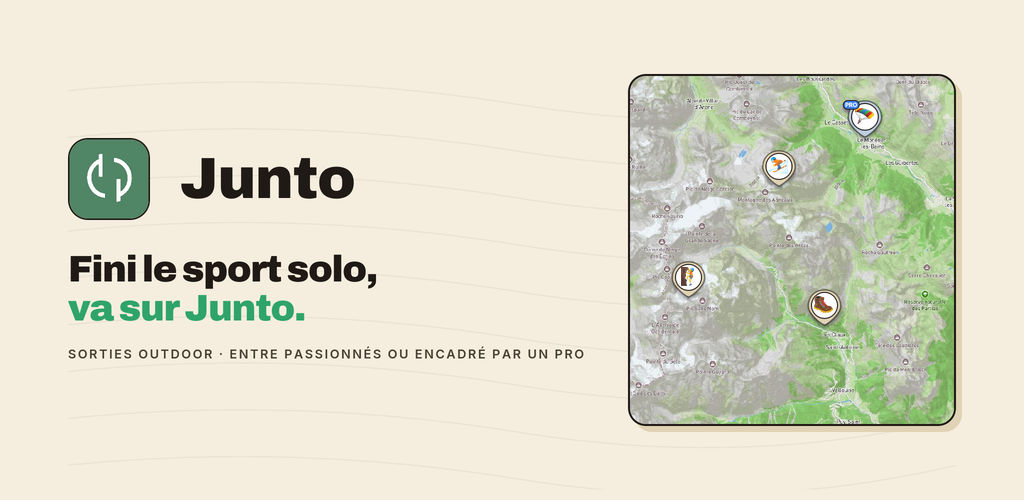
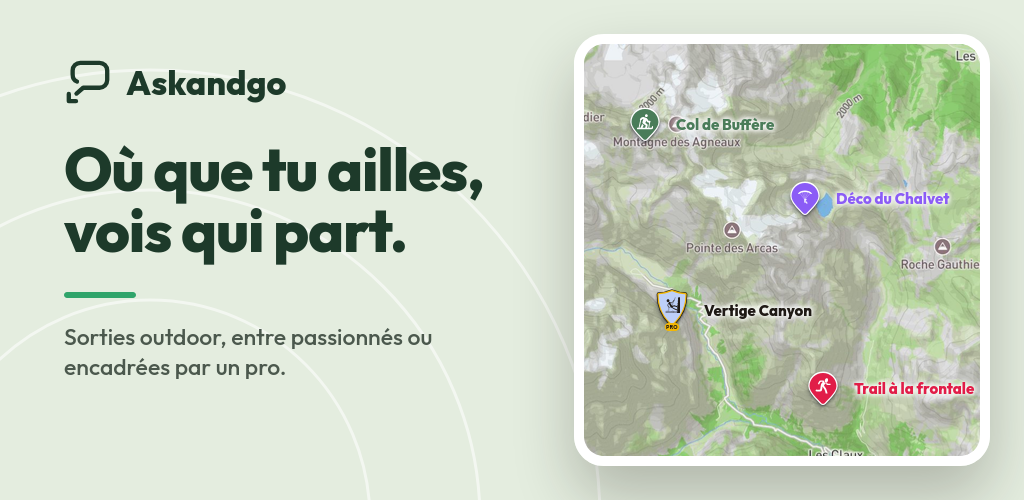
feat(play): askandgo feature graphic 1024×500 — mark, listing headline, map slice with today's pins (gold pro shield); generator feature.py

diff --git a/assets/play-store/askandgo/feature.py b/assets/play-store/askandgo/feature.py
@@ -1,0 +1,67 @@
+# Feature graphic 1024×500 for Google Play (askandgo, 2026-10-26). Same
+# language as the six Play images (Outfit, pale green ground, white arcs):
+# mark + name, the headline, and a slice of the Écrins map with today's pins —
+# three outings and a gold pro shield. Render: see the command in the README
+# block at the end (Firefox headless, window 1024×500).
+import json, os, sys
+S = os.path.dirname(os.path.abspath(__file__))
+ROOT = os.path.abspath(f'{S}/../../..')
+MAP = f'file://{ROOT}/web/public/hero-map-ecrins.jpg'
+MARK = open(f'{ROOT}/assets/brand/askandgo-mark.svg').read().replace('#000000', 'currentColor')
+ICONS = json.load(open(sys.argv[1]))  # sport key → svg xml (currentColor)
+INK = '#1F1A15'; GREEN = '#2FA46A'; DEEP = '#1D3A2A'; GOLD = '#F2B705'
+UNI = {'ski-touring': '#4A7C59', 'trail-running': '#E11D48', 'paragliding': '#8B5CF6', 'canyoning': '#2563EB'}
+DROP = 'M 27 3 C 15.4 3 6 12.2 6 23.5 C 6 33.5 18.5 43.5 24.6 50.2 C 25.9 51.6 28.1 51.6 29.4 50.2 C 35.5 43.5 48 33.5 48 23.5 C 48 12.2 38.6 3 27 3 Z'
+SHIELD = 'M 27 3 C 34 6 41 7.5 47 7.5 C 47 22 44 36 29.6 50.2 C 28.2 51.6 25.8 51.6 24.4 50.2 C 10 36 7 22 7 7.5 C 13 7.5 20 6 27 3 Z'
+
+def picto(key, color, size=24, cx=27, cy=23):
+    xml = ICONS[key]
+    vb = xml.split('viewBox="')[1].split('"')[0]
+    inner = xml.split('>', 1)[1].rsplit('</svg>', 1)[0]
+    return f'<svg x="{cx - size/2}" y="{cy - size/2}" width="{size}" height="{size}" viewBox="{vb}" style="color:{color}">{inner}</svg>'
+
+def shadow(path, w):
+    return (f'<path d="{path}" fill="#0A0F1A" stroke="#0A0F1A" stroke-width="{w}" stroke-linejoin="round" opacity=".28" transform="translate(0 5)" filter="url(#blur4)"/>'
+            f'<path d="{path}" fill="#0A0F1A" stroke="#0A0F1A" stroke-width="{w}" stroke-linejoin="round" opacity=".4" transform="translate(0 2)" filter="url(#blur1)"/>')
+
+def drop(key, px):
+    c = UNI[key]
+    return f'''<svg width="{px}" height="{px*82/78}" viewBox="-12 -14 78 82"><defs><filter id="blur4" x="-50%" y="-50%" width="200%" height="200%"><feGaussianBlur stdDeviation="4"/></filter><filter id="blur1" x="-50%" y="-50%" width="200%" height="200%"><feGaussianBlur stdDeviation="1.2"/></filter></defs>
+{shadow(DROP, 4)}<path d="{DROP}" fill="#FFF" stroke="#FFF" stroke-width="4" stroke-linejoin="round"/><path d="{DROP}" fill="{c}"/>{picto(key, '#FFF', 26)}</svg>'''
+
+def shield(key, tint, px):
+    cap = f'<rect x="16" y="50.5" width="22" height="12" rx="6" fill="{GOLD}"/><text x="27" y="59.6" font-size="8" font-weight="700" letter-spacing=".5" fill="{INK}" text-anchor="middle" font-family="Outfit, Helvetica, Arial, sans-serif">PRO</text>'
+    return f'''<svg width="{px}" height="{px*92/78}" viewBox="-12 -14 78 92"><defs><filter id="blur4" x="-50%" y="-50%" width="200%" height="200%"><feGaussianBlur stdDeviation="4"/></filter><filter id="blur1" x="-50%" y="-50%" width="200%" height="200%"><feGaussianBlur stdDeviation="1.2"/></filter></defs>
+{shadow(SHIELD, 6)}<path d="{SHIELD}" fill="{INK}" stroke="{INK}" stroke-width="6" stroke-linejoin="round"/><path d="{SHIELD}" fill="{GOLD}" stroke="{GOLD}" stroke-width="4" stroke-linejoin="round"/><path d="{SHIELD}" fill="{tint}"/>{picto(key, INK, 24, 27, 24)}{cap}</svg>'''
+
+def pin(x, y, svg, label, color):
+    return f'<div class="pin" style="left:{x}px;top:{y}px">{svg}<span style="color:{color}">{label}</span></div>'
+
+html = f'''<!doctype html><html lang="fr"><head><meta charset="utf-8">
+<link rel="stylesheet" href="https://fonts.googleapis.com/css2?family=Outfit:wght@500;600;700;800&display=swap">
+<style>
+*{{box-sizing:border-box}}html,body{{margin:0;width:1024px;height:500px;overflow:hidden}}
+body{{font-family:Outfit,system-ui,sans-serif;color:{INK};background:#E4EDDF;position:relative}}
+.arcs{{position:absolute;inset:0}}
+.brand{{position:absolute;left:64px;top:58px;display:flex;align-items:center;gap:14px;font-size:34px;font-weight:800;color:{DEEP}}}
+.brand .sp{{width:48px;height:48px;color:{DEEP};display:inline-flex}}.brand .sp svg{{width:100%;height:100%}}
+h1{{position:absolute;left:64px;top:138px;margin:0;width:470px;font-size:60px;line-height:1.02;font-weight:800;color:{DEEP};letter-spacing:-1.2px}}
+.bar{{position:absolute;left:64px;top:292px;width:72px;height:6px;border-radius:3px;background:{GREEN}}}
+.sub{{position:absolute;left:64px;top:322px;width:460px;font-size:23px;line-height:1.3;color:#4B584D;font-weight:500}}
+.map{{position:absolute;left:574px;top:34px;width:416px;height:432px;border-radius:30px;overflow:hidden;background:url({MAP}) 62% 48%/190% auto;box-shadow:0 30px 60px rgba(31,26,21,.26);border:10px solid #FFF}}
+.pin{{position:absolute;display:flex;align-items:center;gap:6px}}
+.pin span{{font-weight:800;font-size:15px;white-space:nowrap;text-shadow:0 0 5px #FFF,0 0 5px #FFF,0 0 8px #FFF}}
+</style></head><body>
+<svg class="arcs" viewBox="0 0 1024 500" fill="none" stroke="#FFF" stroke-opacity=".55" stroke-width="3"><circle cx="150" cy="520" r="220"/><circle cx="150" cy="520" r="330"/><circle cx="150" cy="520" r="450"/></svg>
+<div class="brand"><span class="sp">{MARK}</span>Askandgo</div>
+<h1>Où que tu ailles,<br>vois qui part.</h1>
+<div class="bar"></div>
+<div class="sub">Sorties outdoor, entre passionnés ou encadrées par un pro.</div>
+<div class="map">
+{pin(36, 54, drop('ski-touring', 50), 'Col de Buffère', UNI['ski-touring'])}
+{pin(196, 128, drop('paragliding', 50), 'Déco du Chalvet', UNI['paragliding'])}
+{pin(62, 236, shield('canyoning', '#BDD0F8', 52), 'Vertige Canyon', INK)}
+{pin(214, 318, drop('trail-running', 50), 'Trail à la frontale', UNI['trail-running'])}
+</div>
+</body></html>'''
+open(sys.argv[2], 'w').write(html)

diff --git a/docs/PROD_READINESS.md b/docs/PROD_READINESS.md
@@ -72,7 +72,7 @@ Aucune procédure documentée (notification CNIL 72h, canal de contact, accès a
 - [x] Keystore backup : `eas credentials` → download → chiffrer → stockage hors repo (procédure à documenter) — ✅ **fait** (confirmé par Scott le 2026-10-01 ; compte externe, non vérifiable depuis le dépôt)
 - [x] `versionCode` supprimé d'app.config. Détail original : `versionCode: 4` dans app.config : ignoré avec appVersionSource remote — supprimer la ligne (warning de build)
 - [x] `.env` renommé. Détail original : renommer `.env` `AUTH_TOKEN_SENTRY` → `SENTRY_AUTH_TOKEN` (cosmétique local ; l'EAS secret est déjà bien nommé)
-- [ ] Feature graphic 1024×500 — `assets/play-store/feature-graphic.png` existe mais encore au nom de Junto → à refaire askandgo. Screenshots ✅ refaits 2026-10-24 (`assets/play-store/askandgo/`, 6 images + générateur), listing ✅ `assets/play-store/store-listing.txt` (bloc Contact en attente du domaine).
+- [x] Feature graphic 1024×500 — refaite askandgo le 2026-10-26 (`assets/play-store/feature-graphic.png`, générateur `assets/play-store/askandgo/feature.py` : marque, accroche du listing, bout de carte avec les pins du jour dont l'écusson pro or). Screenshots ✅ refaits 2026-10-24 (`assets/play-store/askandgo/`, 6 images + générateur), listing ✅ `assets/play-store/store-listing.txt` (bloc Contact en attente du domaine).
 - [x] Dépendances alignées sur le SDK 54 (2026-10-24) : `expo-doctor` 18/18, ESLint 0 erreur 0 avertissement, `tsc` propre. `npm audit` : 23 → 9 (3 moderate, 6 high), **tous transitifs dans l'outillage de build Expo** (`@expo/cli`, `@expo/metro-config`, `expo-router` → `query-string`), jamais dans le bundle livré : `decode-uri-component` (correctif 0.5 = ESM-only, casse `query-string@7`), `image-size` (correctif 2.x = API majeure, prebuild des icônes), `node-forge` (aucune version corrigée). Seul `postcss` est surclassé (`overrides`, 8.5.31). À réévaluer à chaque montée de SDK.
 - [x] App Links — **fait** (vérifié 2026-10-01) : `web/public/.well-known/assetlinks.json` porte **2 empreintes** pour `app.getjunto` (Play App Signing + EAS, comme prévu).
 - [ ] `NEXT_PUBLIC_APK_DOWNLOAD_URL` (Vercel) → URL Play Store après publication

diff --git a/docs/BACKLOG.md b/docs/BACKLOG.md
@@ -58,7 +58,7 @@ La base est migrée, la production (version 14, tests internes Google Play) tour
 - [ ] **« Contacter » un pro** hors réservation — décision produit (pas de messagerie client→pro aujourd'hui).
 - [ ] **Filtre carte par métier** (la colonne existe ; le filtre de la carte ne la lit pas).
 - [ ] **Mention « avis vérifiés »** dans la brique d'avis (le gate existe, l'app ne le dit pas).
-- [ ] **Visuels Play** : badge PRO bleu → or sur les captures, feature graphic 1024×500 askandgo (cf. PROD_READINESS).
+- [x] **Visuels Play** (2026-10-26) : feature graphic 1024×500 askandgo refaite ; aucune des cinq captures du listing ne montre de badge PRO (seule l'image 6, hors listing, reste en bleu — à refaire si on l'ajoute un jour).
 - [ ] **Cinq glyphes d'univers** du pin à redessiner dans le trait du jeu de 38 (nuage « météo », vélo en PNG).
 - [ ] **Recadrage carré** à l'envoi de la photo de pin (elle remplit l'écusson ; un paysage devient une tache).
 
